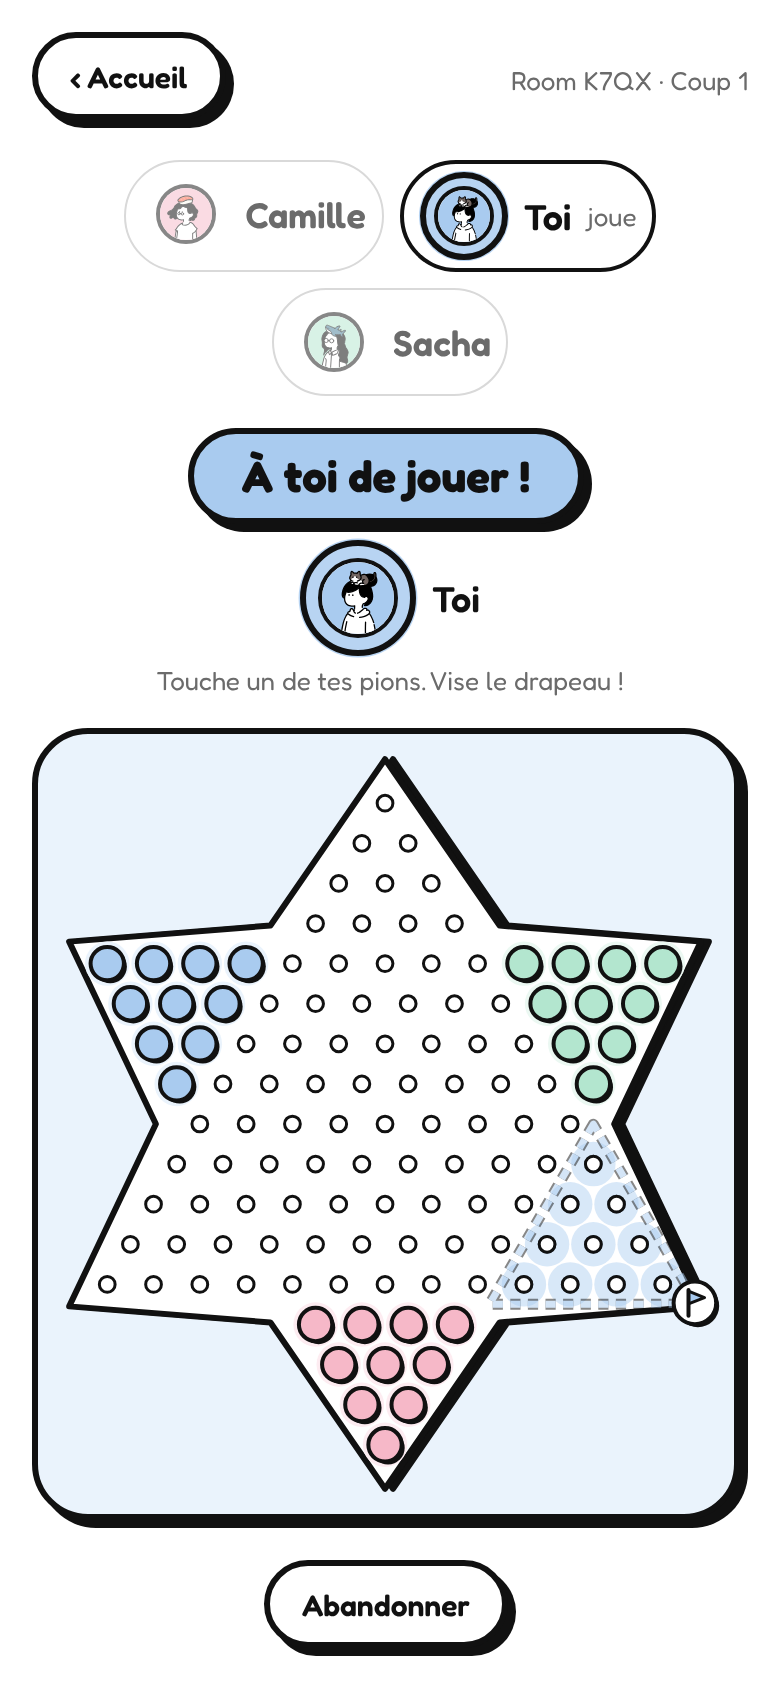
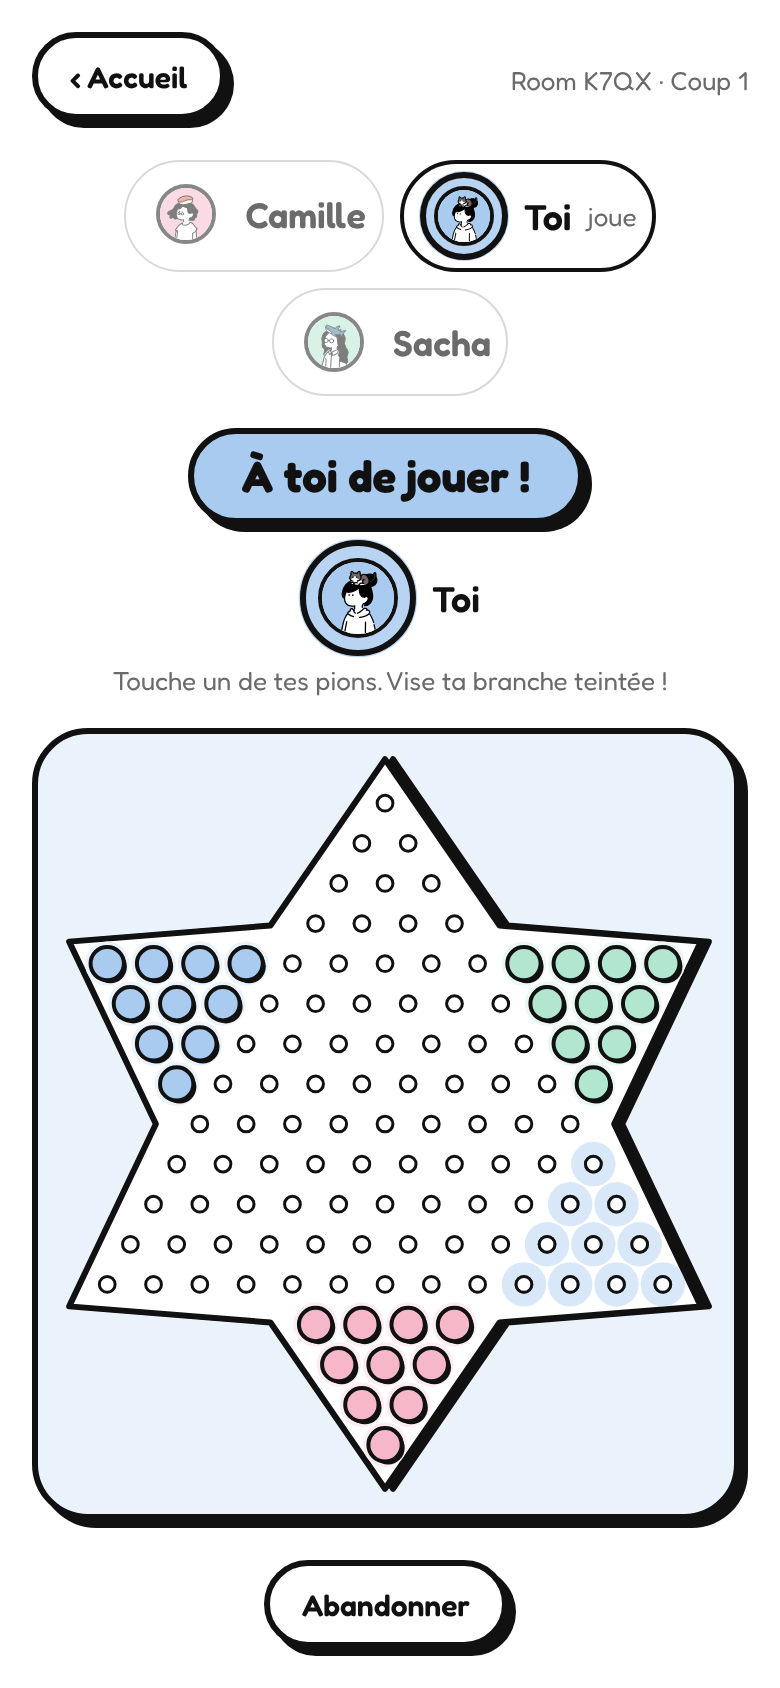
Remove the dashed outline and flag from the goal branch
Keep only the stronger tint of the goal branch cells. Delete GoalMarker,
the outline/flag geometry (goalGeometry, branchVertices, GOAL_OVERFLOW and
their constants) and GoalPulseDuration; keep goalPlayer, which still drives
the tint. Update tests, README, docs/PLAN.md and the tour-* screenshots.

diff --git a/src/components/board/goal.ts b/src/components/board/goal.ts
@@ -1,24 +1,8 @@
-// Branche d'arrivée mise en évidence sur le plateau : à qui elle appartient et
-// sa géométrie d'affichage (contour, emplacement du drapeau). Aucune règle de
-// jeu ici : la branche visée vient de `Player.target`.
+// Branche d'arrivée mise en évidence sur le plateau (teinte plus marquée) : à
+// quel joueur elle appartient. Aucune règle de jeu ici : la branche visée vient
+// de `Player.target`.
 
-import { Spacing } from '@/constants/theme';
-import { cellKey, cornerCells, neighbors, type Corner, type GameState, type PlayerId } from '@/game';
-
-import type { BoardLayout, Point } from './layout';
-
-/** Marge entre les centres des cases du bord de la branche et son contour, en multiples de l'écart entre deux cases. */
-const OUTLINE_MARGIN = 0.43;
-/** Distance du centre du drapeau à la pointe de la branche, en multiples de l'écart entre deux cases. */
-const FLAG_DISTANCE = 0.8;
-/** Rayon de la pastille du drapeau, en multiples de l'écart entre deux cases. */
-const FLAG_RADIUS = 0.46;
-/**
- * Débord permis au calque du marqueur autour du plateau : la marge intérieure
- * du cadre (`GameLayout`). Le drapeau peut y dépasser un peu ; le plateau et sa
- * zone tactile, eux, ne changent pas.
- */
-export const GOAL_OVERFLOW = Spacing.two;
+import type { GameState, PlayerId } from '@/game';
 
 /**
  * Joueur dont la branche d'arrivée est mise en évidence :
@@ -35,56 +19,4 @@ export function goalPlayer(
   const player = viewer ? viewer.me : game.currentPlayer;
   if (player === null || viewer?.forfeited.includes(player)) return null;
   return game.players.some((p) => p.id === player) ? player : null;
-}
-
-/** Les trois cases sommets d'une branche (sa pointe et les deux bouts de sa base). */
-export function branchVertices(corner: Corner) {
-  const cells = cornerCells(corner);
-  const keys = new Set(cells.map(cellKey));
-  // Un sommet du triangle n'a que deux voisins dans la branche ; les autres cases en ont au moins trois.
-  return cells.filter((cell) => neighbors(cell).filter((n) => keys.has(cellKey(n))).length <= 2);
-}
-
-export interface GoalGeometry {
-  /** Contour de la branche, un triangle un peu plus grand que ses cases (format SVG « x,y x,y x,y »). */
-  outline: string;
-  /** Centre de la pastille du drapeau, dans la pointe de l'étoile au-delà de la dernière case. */
-  flag: Point;
-  /** Rayon de la pastille du drapeau. */
-  flagRadius: number;
-}
-
-/** Géométrie d'affichage de la branche d'arrivée `corner` pour la mise en page `layout`. */
-export function goalGeometry(layout: Pick<BoardLayout, 'width' | 'height' | 'spacing' | 'toPoint'>, corner: Corner): GoalGeometry {
-  const { width, height, spacing, toPoint } = layout;
-  const center = { x: width / 2, y: height / 2 };
-  const vertices = branchVertices(corner).map(toPoint);
-  const centroid = {
-    x: vertices.reduce((sum, p) => sum + p.x, 0) / vertices.length,
-    y: vertices.reduce((sum, p) => sum + p.y, 0) / vertices.length,
-  };
-  // Triangle équilatéral : agrandi autour de son centre pour que chaque côté recule de la marge voulue.
-  const side = Math.hypot(vertices[1].x - vertices[0].x, vertices[1].y - vertices[0].y);
-  const inradius = side / (2 * Math.sqrt(3));
-  const scale = inradius > 0 ? (inradius + OUTLINE_MARGIN * spacing) / inradius : 1;
-  const outline = vertices
-    .map((p) => `${round(centroid.x + (p.x - centroid.x) * scale)},${round(centroid.y + (p.y - centroid.y) * scale)}`)
-    .join(' ');
-
-  // La pointe est le sommet le plus éloigné du centre du plateau ; le drapeau se place juste au-delà.
-  const apex = vertices.reduce((a, b) =>
-    Math.hypot(a.x - center.x, a.y - center.y) >= Math.hypot(b.x - center.x, b.y - center.y) ? a : b,
-  );
-  const distance = Math.hypot(apex.x - center.x, apex.y - center.y);
-  const ux = distance > 0 ? (apex.x - center.x) / distance : 0;
-  const uy = distance > 0 ? (apex.y - center.y) / distance : 0;
-  return {
-    outline,
-    flag: { x: apex.x + ux * FLAG_DISTANCE * spacing, y: apex.y + uy * FLAG_DISTANCE * spacing },
-    flagRadius: FLAG_RADIUS * spacing,
-  };
-}
-
-function round(n: number): number {
-  return Math.round(n * 100) / 100;
 }

diff --git a/src/components/board/__tests__/goal.test.ts b/src/components/board/__tests__/goal.test.ts
@@ -1,28 +1,8 @@
 import { describe, expect, it } from '@jest/globals';
 
-import { cornerCells, createGame, oppositeCorner, type Corner, type PlayerCount } from '@/game';
+import { createGame } from '@/game';
 
-import { branchVertices, GOAL_OVERFLOW, goalGeometry, goalPlayer } from '../goal';
-import { cellAt, computeBoardLayout } from '../layout';
-
-const CORNERS: Corner[] = [0, 1, 2, 3, 4, 5];
-const COUNTS: PlayerCount[] = [2, 3, 4, 5, 6];
-
-function parse(points: string) {
-  return points.split(' ').map((pair) => {
-    const [x, y] = pair.split(',').map(Number);
-    return { x, y };
-  });
-}
-
-/** Vrai si p est dans le triangle abc (bords compris). */
-function inTriangle(p: { x: number; y: number }, [a, b, c]: { x: number; y: number }[]) {
-  const side = (u: typeof p, v: typeof p) => (v.x - u.x) * (p.y - u.y) - (v.y - u.y) * (p.x - u.x);
-  const s1 = side(a, b);
-  const s2 = side(b, c);
-  const s3 = side(c, a);
-  return (s1 >= 0 && s2 >= 0 && s3 >= 0) || (s1 <= 0 && s2 <= 0 && s3 <= 0);
-}
+import { goalPlayer } from '../goal';
 
 describe('goalPlayer : qui voit sa branche d’arrivée', () => {
   it('partie locale : le joueur dont c’est le tour', () => {
@@ -41,59 +21,5 @@ describe('goalPlayer : qui voit sa branche d’arrivée', () => {
     expect(goalPlayer(game, { me: 1, forfeited: [1] })).toBeNull();
     expect(goalPlayer({ ...game, status: 'finished' })).toBeNull();
     expect(goalPlayer({ ...game, status: 'finished' }, { me: 0, forfeited: [] })).toBeNull();
-  });
-});
-
-describe('goalGeometry : contour et drapeau de la branche d’arrivée', () => {
-  it('trouve les trois sommets de chaque branche, dont sa pointe', () => {
-    for (const corner of CORNERS) {
-      expect(branchVertices(corner)).toHaveLength(3);
-    }
-    expect(branchVertices(0)).toContainEqual({ q: 4, r: -8 });
-    expect(branchVertices(3)).toContainEqual({ q: -4, r: 8 });
-  });
-
-  for (const [label, width, height] of [
-    ['petit écran', 320, 360],
-    ['grand écran', 900, 760],
-  ] as const) {
-    it(`entoure les 10 cases et garde le drapeau dans le cadre (${label}, 2 à 6 joueurs)`, () => {
-      const layout = computeBoardLayout(width, height);
-      for (const count of COUNTS) {
-        for (const player of createGame(count).players) {
-          // Branche d'arrivée de chaque joueur, vide ou occupée par un adversaire.
-          expect(player.target).toBe(oppositeCorner(player.home));
-          const { outline, flag, flagRadius } = goalGeometry(layout, player.target);
-          const triangle = parse(outline);
-          expect(triangle).toHaveLength(3);
-          for (const cell of cornerCells(player.target)) {
-            const p = layout.toPoint(cell);
-            expect(inTriangle(p, triangle)).toBe(true);
-          }
-          // Il peut dépasser du plateau, mais pas de la marge intérieure du cadre.
-          expect(flag.x - flagRadius).toBeGreaterThanOrEqual(-GOAL_OVERFLOW);
-          expect(flag.y - flagRadius).toBeGreaterThanOrEqual(-GOAL_OVERFLOW);
-          expect(flag.x + flagRadius).toBeLessThanOrEqual(layout.width + GOAL_OVERFLOW);
-          expect(flag.y + flagRadius).toBeLessThanOrEqual(layout.height + GOAL_OVERFLOW);
-          // Le drapeau est au-delà de la pointe : aucune case dessous, il ne cache aucun pion.
-          expect(cellAt(layout, flag.x, flag.y)).toBeNull();
-        }
-      }
-    });
-  }
-
-  it('ne déborde pas sur les cases voisines de la branche', () => {
-    const layout = computeBoardLayout(400);
-    for (const corner of CORNERS) {
-      const triangle = parse(goalGeometry(layout, corner).outline);
-      const inside = new Set(cornerCells(corner).map((c) => `${c.q},${c.r}`));
-      // Les cases de l'hexagone central restent hors du contour.
-      for (let q = -4; q <= 4; q++) {
-        for (let r = -4; r <= 4; r++) {
-          if (Math.abs(q + r) > 4 || inside.has(`${q},${r}`)) continue;
-          expect(inTriangle(layout.toPoint({ q, r }), triangle)).toBe(false);
-        }
-      }
-    }
   });
 });

diff --git a/src/components/board/__tests__/board.test.tsx b/src/components/board/__tests__/board.test.tsx
@@ -1,7 +1,10 @@
 import { describe, expect, it, jest } from '@jest/globals';
 import { fireEvent, render, screen } from '@testing-library/react-native';
 
-import { createGame } from '@/game';
+import Svg, { Circle } from 'react-native-svg';
+
+import { GoalTintOpacity } from '@/constants/theme';
+import { cornerCells, createGame, type PlayerCount } from '@/game';
 
 import { Board } from '../board';
 import { computeBoardLayout } from '../layout';
@@ -50,9 +53,30 @@ describe('plateau : branche d’arrivée', () => {
     // Une seule zone accessible : le marqueur de la branche est décoratif.
     expect(screen.getAllByLabelText('Plateau de jeu')).toHaveLength(1);
     const zone = screen.getByLabelText('Plateau de jeu');
-    // Une case de la branche d'arrivée (vide à 3 joueurs), sous le contour en pointillés.
+    // Une case de la branche d'arrivée (vide à 3 joueurs), sous sa teinte.
     const { x, y } = layout.toPoint({ q: -4, r: 8 });
     touch(zone, x, y);
     expect(onCellPress).toHaveBeenCalledWith({ q: -4, r: 8 });
+  });
+
+  it('teinte les 10 cases de la branche d’arrivée du joueur mis en évidence, de 2 à 6 joueurs', () => {
+    for (const count of [2, 3, 4, 5, 6] as PlayerCount[]) {
+      const game = createGame(count);
+      for (const player of game.players) {
+        const { UNSAFE_getAllByType, unmount } = render(<Board game={game} layout={layout} goal={player.id} />);
+        const tinted = UNSAFE_getAllByType(Circle).filter((circle) => circle.props.fillOpacity === GoalTintOpacity);
+        const expected = cornerCells(player.target).map((cell) => layout.toPoint(cell));
+        expect(tinted.map((circle) => `${circle.props.cx},${circle.props.cy}`).sort()).toEqual(
+          expected.map((p) => `${p.x},${p.y}`).sort(),
+        );
+        unmount();
+      }
+    }
+  });
+
+  it('ne dessine qu’un seul SVG et aucune teinte de branche d’arrivée sans joueur mis en évidence', () => {
+    const { UNSAFE_getAllByType } = render(<Board game={createGame(4)} layout={layout} goal={null} />);
+    expect(UNSAFE_getAllByType(Svg)).toHaveLength(1);
+    expect(UNSAFE_getAllByType(Circle).filter((circle) => circle.props.fillOpacity === GoalTintOpacity)).toHaveLength(0);
   });
 });

diff --git a/src/components/board/board.tsx b/src/components/board/board.tsx
@@ -16,7 +16,6 @@ import {
   type PlayerId,
 } from '@/game';
 
-import { GoalMarker } from './goal-marker';
 import { cellAt, type BoardLayout } from './layout';
 import { MovingPiece } from './moving-piece';
 
@@ -30,7 +29,7 @@ interface BoardProps {
   animating?: { move: Move; player: number; turn: number } | null;
   /**
    * Joueur dont la branche d'arrivée est mise en évidence (voir `goalPlayer`) :
-   * teinte plus marquée, contour en pointillés et drapeau. Affichage seulement.
+   * ses cases sont teintées plus fort que les branches de départ. Affichage seulement.
    */
   goal?: PlayerId | null;
   onCellPress?: (cell: Cell) => void;
@@ -165,8 +164,6 @@ export function Board({ game, layout, selected, moves = [], animating, goal = nu
           );
         })}
       </Svg>
-
-      {goalCorner !== null && goal !== null && <GoalMarker layout={layout} corner={goalCorner} player={goal} />}
 
       {animating && onAnimationEnd && (
         <MovingPiece

diff --git a/src/constants/theme.ts b/src/constants/theme.ts
@@ -134,11 +134,10 @@ export const MoveHopDuration = 170;
 
 /**
  * Mise en évidence du tour : durée d'un aller (ms) de la pulsation lente du
- * halo autour du joueur courant, et de celle de la branche d'arrivée. Aucune
- * pulsation si l'utilisateur a demandé de réduire les animations.
+ * halo autour du joueur courant. Aucune pulsation si l'utilisateur a demandé
+ * de réduire les animations.
  */
 export const TurnPulseDuration = 900;
-export const GoalPulseDuration = 1400;
 
 /** Opacité de la couleur `piece` qui teinte la branche d'arrivée (plus marquée que la teinte `tint` des départs). */
 export const GoalTintOpacity = 0.45;

diff --git a/src/components/online/online-game-view.tsx b/src/components/online/online-game-view.tsx
@@ -68,7 +68,7 @@ export function OnlineGameView({ snapshot, userId, now, onGame }: OnlineGameView
               ? moves.length > 0
                 ? 'Touche une case en pointillés pour jouer.'
                 : 'Ce pion ne peut pas bouger.'
-              : 'Touche un de tes pions. Vise le drapeau !'
+              : 'Touche un de tes pions. Vise ta branche teintée !'
             : current?.aiLevel
               ? 'L’IA réfléchit…'
               : currentAway !== null

diff --git a/README.md b/README.md
@@ -162,18 +162,14 @@ Retours des parties de test : on ne voyait pas assez vite à qui c'était le tou
   sinon « En attente de » suivi du joueur. Sur le web, le titre de l'onglet suit (« ● À toi de jouer ! · Halma »,
   « En attente de Camille · Halma », « Partie terminée · Halma ») avec `expo-router/head` (rendu seulement sur
   le web). Textes dans `src/rooms/turn-display.ts`.
-- **Branche d'arrivée** (`src/components/board/goal.ts` et `goal-marker.tsx`) : celle du joueur dont c'est le
-  tour en local, toujours la tienne en ligne (aucune pour un spectateur, un joueur parti ou une partie finie).
-  Teinte plus marquée que les branches de départ (couleur `piece`, opacité `GoalTintOpacity`), contour en
-  pointillés pastel bordés de noir qui pulse lentement, et un drapeau dans une pastille au-delà de la pointe
-  (dans la marge du plateau, sans cacher de pion). Le contour et le drapeau sont dans un calque sans toucher posé
-  au-dessus du plateau : ni le calcul du plateau ni la zone tactile ne changent. Le calque peut déborder dans la
-  marge intérieure du cadre (`GOAL_OVERFLOW`).
-- **Réduire les animations** : halo et contour restent immobiles (pleinement visibles) ; seul le mouvement
-  disparaît, les indices (anneau, texte, drapeau) restent.
-- Tests : `goal.test.ts` (qui voit sa branche ; contour autour des 10 cases sans déborder sur l'hexagone central ;
-  drapeau dans le cadre et hors des cases, de 2 à 6 joueurs, branches vides comprises, petit et grand écran),
-  `board.test.tsx` (même zone tactile), `turn-display.test.ts`, `turn-highlight.test.tsx`.
+- **Branche d'arrivée** : celle du joueur dont c'est le tour en local, toujours la tienne en ligne (aucune pour
+  un spectateur, un joueur parti ou une partie finie ; `goalPlayer` dans `src/components/board/goal.ts`). Ses
+  cases sont simplement teintées plus fort que les branches de départ (couleur `piece`, opacité
+  `GoalTintOpacity`), sous les pions ; ni le calcul du plateau ni la zone tactile ne changent.
+- **Réduire les animations** : le halo reste immobile (pleinement visible) ; seul le mouvement disparaît, les
+  indices (anneau, texte) restent.
+- Tests : `goal.test.ts` (qui voit sa branche), `board.test.tsx` (les 10 cases teintées de la branche visée, de
+  2 à 6 joueurs, branches vides comprises ; même zone tactile), `turn-display.test.ts`, `turn-highlight.test.tsx`.
 
 Captures : `docs/screenshots/tour-*.png`.
 
@@ -535,9 +531,9 @@ des 86 morceaux par le parseur XML de `react-native-svg`, celui qu'utilise `SvgX
 - **Erreur inattendue** : `src/app/_layout.tsx` exporte un `ErrorBoundary` (écran « Oups, un pion est tombé »,
   `src/components/error-screen.tsx`) avec « Réessayer » et « Retour à l'accueil » : jamais d'écran blanc.
 - **Animations** (Reanimated) : fondu et zoom de l'écran de fin, fondu des messages, arrivée et départ des
-  joueurs dans la salle d'attente, changement de tour, pion animé le long de son chemin, halo du joueur courant
-  et contour de la branche d'arrivée. Toutes suivent le réglage « Réduire les animations » du système (le pion
-  arrive alors directement, halo et contour restent immobiles).
+  joueurs dans la salle d'attente, changement de tour, pion animé le long de son chemin, halo du joueur courant.
+  Toutes suivent le réglage « Réduire les animations » du système (le pion arrive alors directement, le halo
+  reste immobile).
 - **Accessibilité** :
   - zones touchables d'au moins 44 points (`TouchTarget`) : boutons, choix de niveau, onglets et couleurs de l'éditeur d'avatar ;
   - contrastes vérifiés par un test (`src/constants/__tests__/theme.test.ts`) : texte noir sur blanc et sur tous

diff --git a/docs/PLAN.md b/docs/PLAN.md
@@ -179,9 +179,11 @@ Configure EAS Build (eas.json) pour Android et iOS. Ouvre une pull request.
   des joueurs), autres joueurs atténués, « joue » écrit dans la barre ; cadre du plateau teinté de sa couleur.
 - En ligne : bannière « À toi de jouer ! » dans ta couleur, sinon « En attente de » suivi du joueur ; titre de
   l'onglet du navigateur assorti (`expo-router/head`, web seulement).
-- Branche d'arrivée (en local celle du joueur courant, en ligne toujours la tienne) : teinte plus marquée,
-  contour en pointillés pastel qui pulse lentement, drapeau au-delà de la pointe. Calque sans toucher : calcul du
-  plateau et zone tactile inchangés. Vérifiée de 2 à 6 joueurs, petit et grand écran (tests et captures).
+- Branche d'arrivée (en local celle du joueur courant, en ligne toujours la tienne) : simplement teintée plus
+  fort que les branches de départ. Calcul du plateau et zone tactile inchangés. Vérifiée de 2 à 6 joueurs, petit
+  et grand écran (tests et captures).
+- Retouche : le contour en pointillés et le drapeau d'abord posés sur la branche d'arrivée ont été retirés ;
+  seule la teinte reste.
 - Profil : icône SVG décorative devant chaque statistique (coupe, drapeau de départ, flamme, flamme et étoile).
 - Tout suit « Réduire les animations » ; aucun indice ne repose sur la couleur seule.
 - Limite : l'écran en ligne a été vérifié avec une partie factice (pas de Supabase dans l'environnement de
